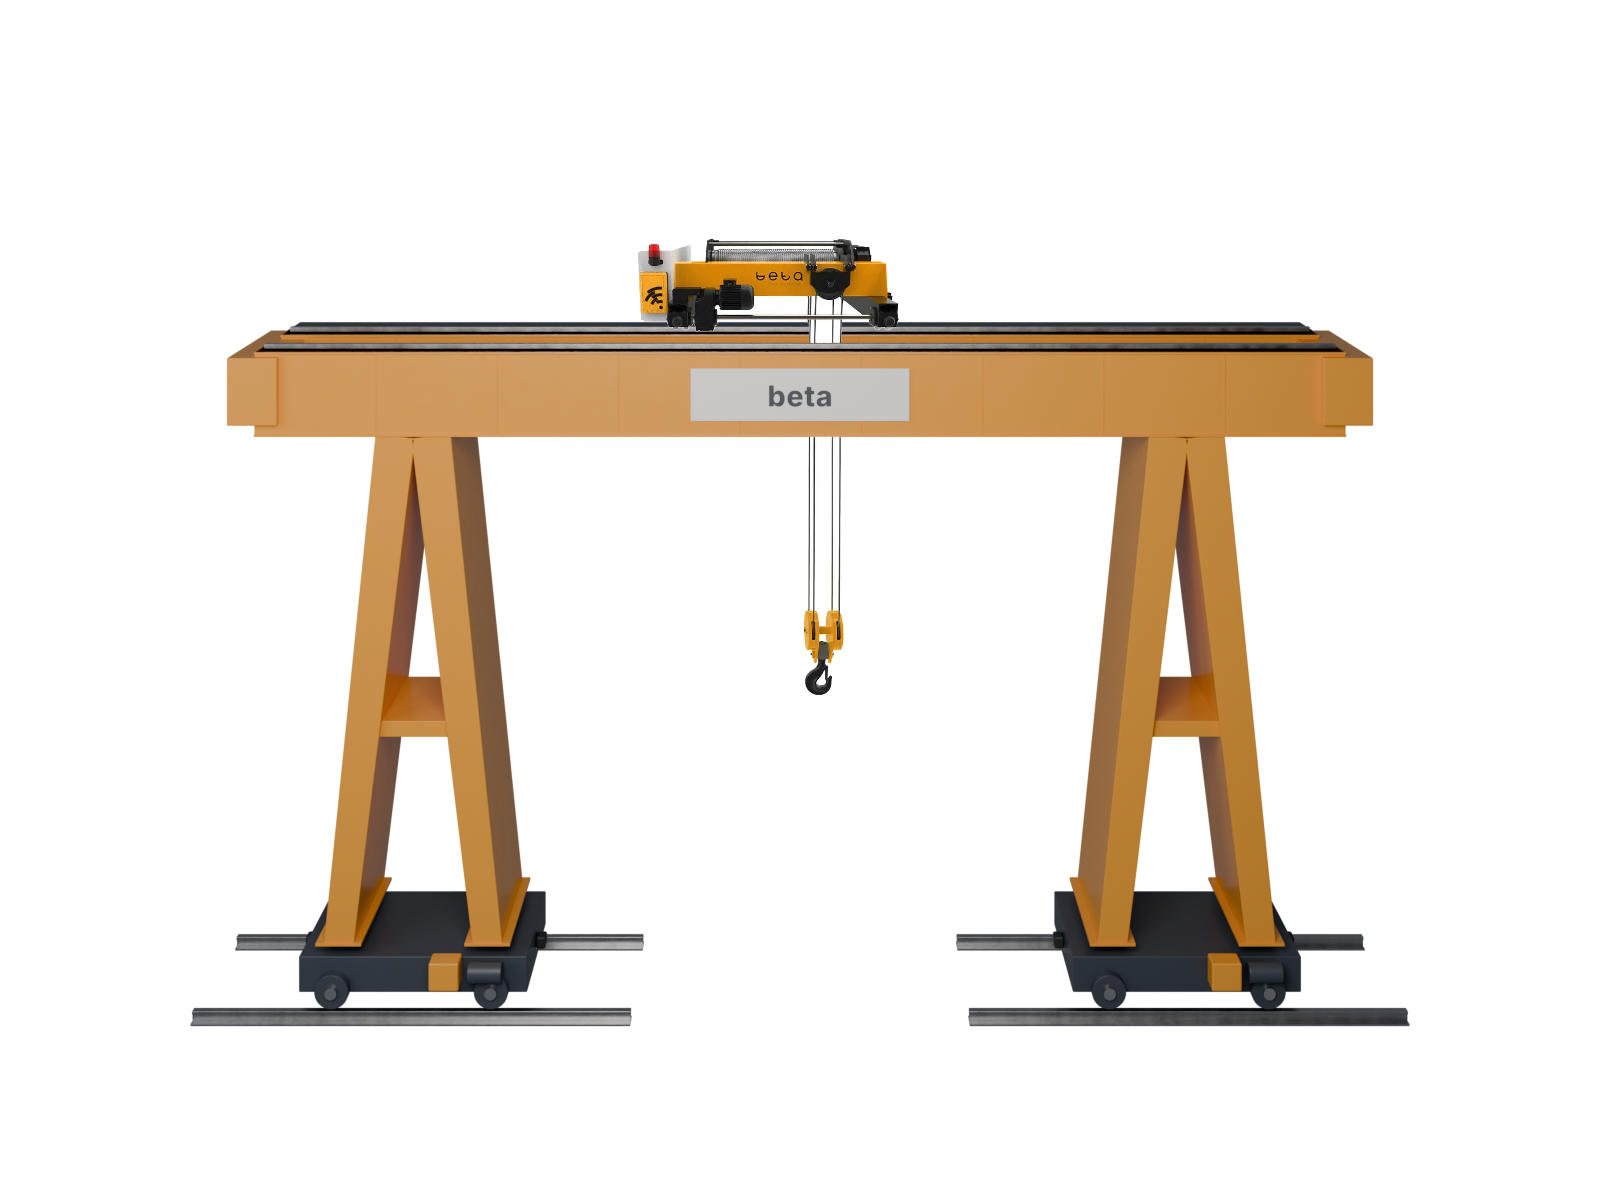
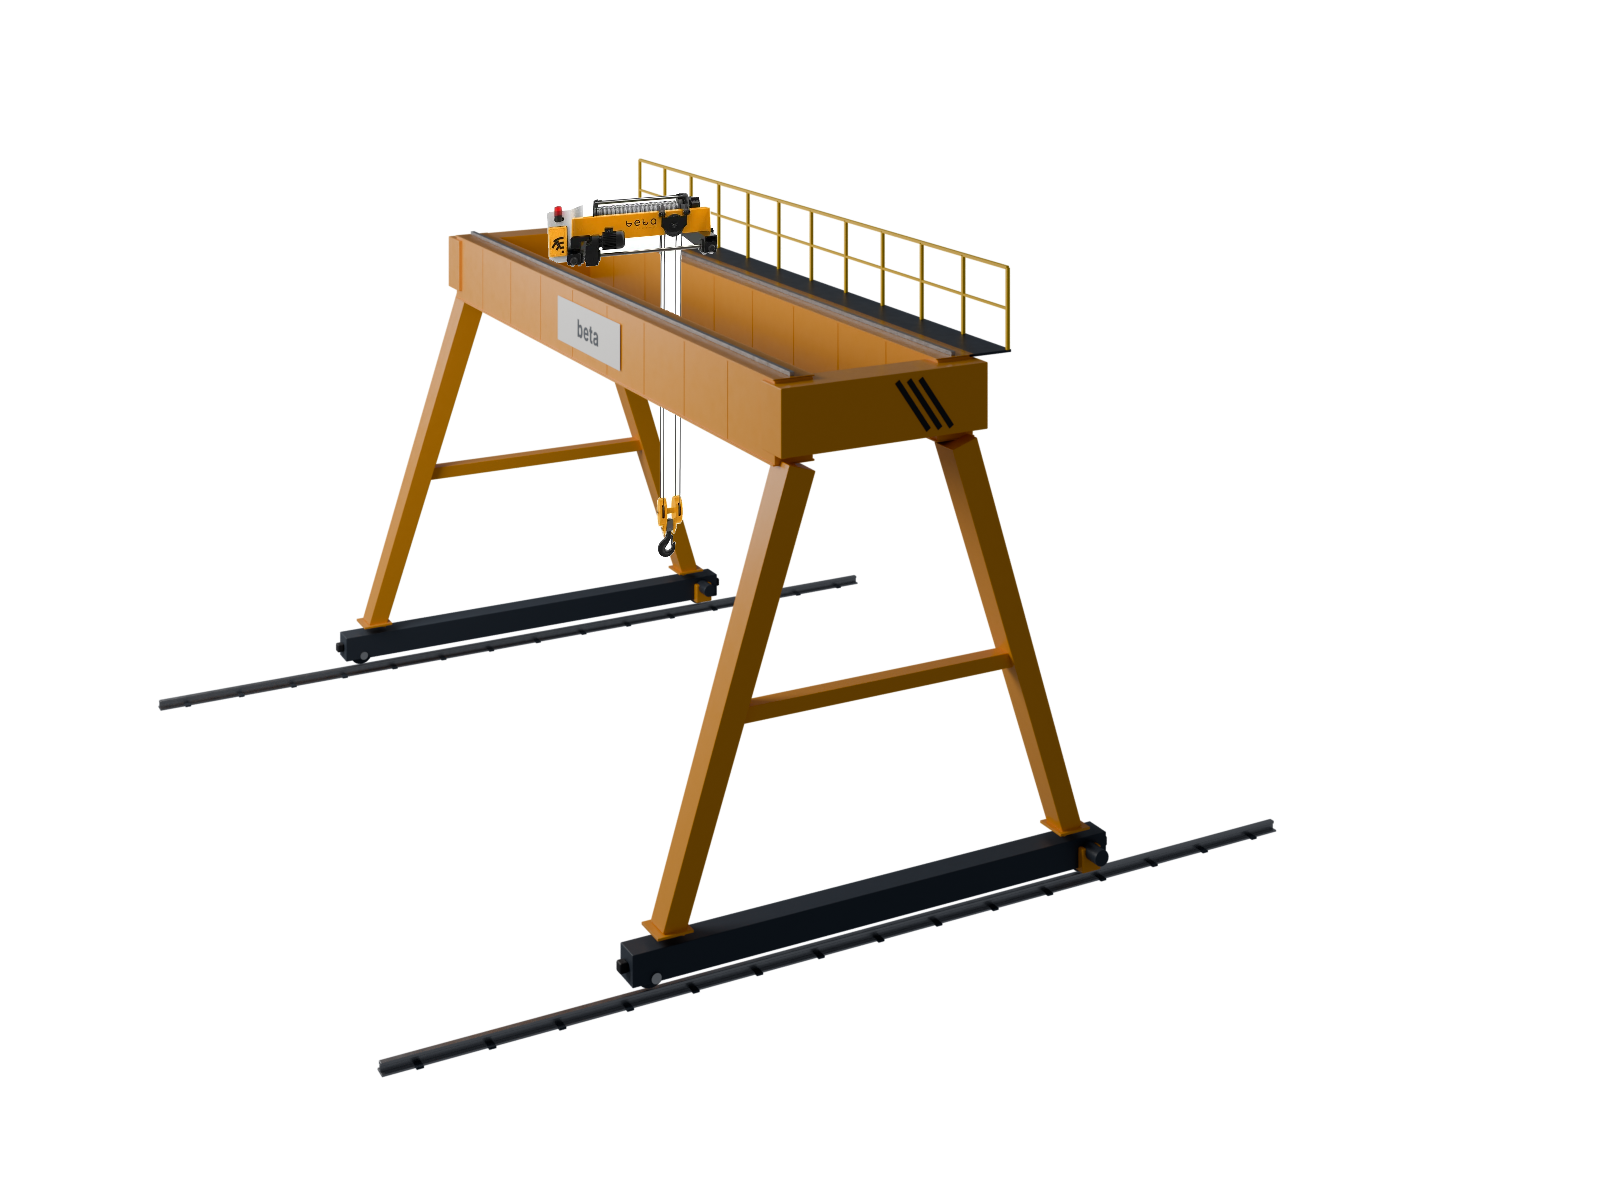
Portaller gerçek çift kirişli yapıya göre: kirişe dik A ayaklar, araba iki raya basar
Claude-Session: https://claude.ai/code/session_01BwJWWo6Yo4AefWjfCSnerb

Changed region(s): [[0.0938, 0.1233, 0.875, 0.8942]]

diff --git a/kaynak/render_vincler.py b/kaynak/render_vincler.py
@@ -901,41 +901,54 @@ def ray_x(name, x0, x1, y, M):
     kutu(name + "_mantar", (L, 0.07, 0.035), (cx, y, 0.105), M["ray"], bevel=0.006)
 
 
-def portal_govde(M, g, span, z_ust, h, cift_ayak=True, ray_ust=0.0, kanca_z=1.6, foto=None):
-    yk = 0.48  # kiriş aksları
-    kutu_kiris("kiris_on", 0, span, -yk, z_ust, h, 0.42, M, g, logo_yuzu=True)
-    kutu_kiris("kiris_arka", 0, span, yk, z_ust, h, 0.42, M, g)
-    for x in ((0.0, span) if True else ()):
-        kutu(f"bas_kirisi{x}", (0.5, 2 * yk + 0.6, h * 0.8), (x, 0, z_ust - h * 0.45), M["turuncu"], g, bevel=0.012)
-    # yürüyüş yolu ve korkuluk (arka kiriş üstünde; yan görünümde arabayı kapatmasın)
-    for i in range(0 if YAN else int(span / 1.0) + 1):
-        kutu(f"korkuluk_dikme{i}", (0.04, 0.04, 1.0), (i * span / int(span), yk + 0.48, z_ust + 0.5), M["sari"], g, bevel=0.004)
-    if not YAN:
-        kutu("korkuluk_ust", (span, 0.04, 0.04), (span / 2, yk + 0.48, z_ust + 1.0), M["sari"], g, bevel=0.004)
-        kutu("korkuluk_orta", (span, 0.03, 0.03), (span / 2, yk + 0.48, z_ust + 0.5), M["sari"], g, bevel=0.004)
-    kutu("yurume_yolu", (span, 0.55, 0.02), (span / 2, yk + 0.24 + 0.05, z_ust - 0.01), M["antrasit"], g, bevel=0.002)
+def portal_govde(M, g, span, z_ust, h, cift_ayak=True, ray_ust=0.0, kanca_z=1.6, foto=None, yan=None, yakin_x=None):
+    """Çift kirişli portal. yan=False: gerçek yapı (ayaklar kirişe dik düzlemde A, raylar kirişe dik)."""
+    yan = YAN if yan is None else yan
+    # kiriş aksları: fotoğraftaki arabanın tekerlek açıklığına (~2,2 m) göre
+    yk = 1.1 if (foto and not yan) else 0.48
+    kutu_kiris("kiris_on", 0, span, -yk, z_ust, h, 0.5 if yk > 1 else 0.42, M, g, logo_yuzu=True)
+    kutu_kiris("kiris_arka", 0, span, yk, z_ust, h, 0.5 if yk > 1 else 0.42, M, g)
+    for x in (0.0, span):
+        kutu(f"bas_kirisi{x:g}", (0.5, 2 * yk + 0.6, h * 0.8), (x, 0, z_ust - h * 0.45), M["turuncu"], g, bevel=0.012)
+        if not yan:
+            # uç kirişlerde siyah ikaz şeritleri
+            sx = 1 if x > 0 else -1
+            for k in range(3):
+                kutu(f"bas_kirisi{x:g}_serit{k}", (0.006, 0.07, h * 0.75), (x + sx * 0.253, 0.35 + k * 0.16, z_ust - h * 0.45),
+                     M["siyah"], g, bevel=0.0, rot=(math.radians(35), 0, 0))
+    # yürüyüş yolu ve korkuluk (arka kirişin dış yanında)
+    ky = yk + (0.25 if yk > 1 else 0.48)
+    if not yan:
+        for i in range(int(span / 1.0) + 1):
+            kutu(f"korkuluk_dikme{i}", (0.04, 0.04, 1.0), (i * span / int(span), ky + 0.5, z_ust + 0.5), M["sari"], g, bevel=0.004)
+        kutu("korkuluk_ust", (span, 0.04, 0.04), (span / 2, ky + 0.5, z_ust + 1.0), M["sari"], g, bevel=0.004)
+        kutu("korkuluk_orta", (span, 0.03, 0.03), (span / 2, ky + 0.5, z_ust + 0.5), M["sari"], g, bevel=0.004)
+        kutu("yurume_yolu", (span, 0.6, 0.03), (span / 2, ky + 0.25, z_ust - 0.015), M["antrasit"], g, bevel=0.002)
     # ayaklar
     zl = z_ust - h
-    if YAN:
+    if yan:
         der = 2 * yk + 0.42
         for i, xa in enumerate((1.6, span - 1.6) if cift_ayak else (1.6,)):
             portal_ayak_x(f"ayak{i}", xa, 0.62, zl, M, g, der)
             bas_araba_x(f"bas{i}", xa, ray_ust, M, g, der)
             for sy in (-1, 1):
                 ray_x(f"ray{i}{sy}", xa - 2.2, xa + 2.2, sy * (der / 2 + 0.05), M)
-    ya = max(1.7, yk + 0.9)
-    if not YAN:
-        portal_ayak("ayak_sol", 0.0, ya, max(0.55, yk * 0.9), 0.62, zl, M, g)
-        bas_araba("bas_sol", 0.0, -ya - 0.5, ya + 0.5, M, g, z=ray_ust)
-    if cift_ayak and not YAN:
-        portal_ayak("ayak_sag", span, ya, max(0.55, yk * 0.9), 0.62, zl, M, g)
-        bas_araba("bas_sag", span, -ya - 0.5, ya + 0.5, M, g, z=ray_ust)
-        kutu("kumanda_kabin", (0.6, 0.5, 0.9), (span - 0.0, -ya * 0.6, 1.6), M["antrasit"], g, bevel=0.01)
+    else:
+        ya = yk + 1.6 if yk > 1 else 1.7
+        yu = yk if yk > 1 else 0.55
+        for ad, x in (("sol", 0.0), ("sag", span)) if cift_ayak else (("sol", 0.0),):
+            portal_ayak(f"ayak_{ad}", x, ya, yu, 0.62, zl, M, g)
+            bas_araba(f"bas_{ad}", x, -ya - 0.5, ya + 0.5, M, g, z=ray_ust)
     if foto:
-        # Beta halatlı vinç arabası fotoğrafı: kiriş raylarının üstünde, halatlar ön kirişin arkasında
+        # Beta halatlı vinç arabası fotoğrafı: iki kirişin raylarına basar
         dosya, yuk, capa, dikey = foto
-        foto_vinc(dosya, g, (span * 0.47, 0, z_ust + 0.05), yuk, capa=capa, dikey=dikey,
-                  arkasinda=("kiris_on",), halat=(0.45, 0.60, kanca_z))
+        onunde = ["kiris_on"]
+        if yakin_x is not None:
+            onunde += [f"bas_kirisi{yakin_x:g}", "ayak_sag" if yakin_x > 0 else "ayak_sol"]
+        xa = span * (0.36 if (yakin_x or 0) > 0 else 0.58)
+        foto_vinc(dosya, g, (xa, 0, z_ust + 0.05), yuk, capa=capa, dikey=dikey,
+                  arkasinda=tuple(onunde), halat=(0.45, 0.60, kanca_z),
+                  eksen=None if yan else (0, 1, 0))
     else:
         halatli_araba("araba", span * 0.47, z_ust + 0.05, yk, M, g, kanca_z=kanca_z)
 
@@ -953,17 +966,20 @@ def ray(name, x, y0, y1, M):
 def sahne_portal(M):
     ortam(M, arka_y=9.5, sol_x=-9.0, sag_x=22.0)
     span = 11.0
-    if not YAN:
-        ray("ray_sol", 0.0, -RAY, RAY, M)
-        ray("ray_sag", span, -RAY, RAY, M)
+    ray("ray_sol", 0.0, -RAY, RAY, M)
+    ray("ray_sag", span, -RAY, RAY, M)
     g = bos("portal", (0, 0, 0.12))
-    portal_govde(M, g, span, 6.6, 0.85, cift_ayak=True, kanca_z=3.0 if YAN else 1.4,
+    portal_govde(M, g, span, 6.6, 1.0, cift_ayak=True, kanca_z=2.4, yan=False, yakin_x=span,
                  foto=("halatli_vinc_araba.png", 2.3, 0.5, 0.44) if BEYAZ else None)
     # yük: çelik sac paketi
     if not BEYAZ:
         yuk_kasa(M, (span * 0.47 - 0.15, -0.0, 0.0))
-    if YAN:
-        kamera((span / 2, -19.5, 10.3), (span / 2, 0, 4.0), lens=42, kaydir=True)  # araba fotoğrafı ~9° yukarıdan
+    if BEYAZ:
+        # araba fotoğrafı gibi: kiriş doğrultusuna yakın (~20° yandan), ~9° yukarıdan
+        a = math.radians(25)
+        d = 30.0
+        kamera((span / 2 + d * math.cos(a), -d * math.sin(a), 7.8 + d * math.tan(math.radians(9))),
+               (span / 2 + 3.6, 0, 3.4), lens=48, kaydir=True)
     else:
         kamera((13.4, -11.0, 1.8), (5.4, 0.0, 3.7), lens=24, dof=12)
     anahtar_isik((4, -12, 10), (5, 0, 3), 3500, boyut=8)
@@ -975,8 +991,9 @@ def sahne_yari_portal(M):
     # sağda betonarme bina kolonları + yürüyüş yolu kirişi
     beton = boya("beton_kolon", (0.36, 0.36, 0.345, 1), rough=0.85, var=0.1, bump=0.4)
     kx = span + 0.75
-    for i, y in enumerate(((0,) if YAN else (-3.5, 3.5)) if BEYAZ else (-12, -6, 0, 6, 12)):
-        kutu(f"bina_kolon{i}", (0.6, 0.6, 12), (kx, y, 6), beton, bevel=0.01)
+    KH = 9.5 if BEYAZ else 12
+    for i, y in enumerate((-3.5, 3.5) if BEYAZ else (-12, -6, 0, 6, 12)):
+        kutu(f"bina_kolon{i}", (0.6, 0.6, KH), (kx, y, KH / 2), beton, bevel=0.01)
         kutu(f"konsol{i}", (0.6, 0.6, 0.6), (kx - 0.55, y, 6.0), beton, bevel=0.01)
     if not BEYAZ:
         duzlem("sag_duvar", (80, 12), (kx + 0.3, 0, 6), (math.pi / 2, 0, math.pi / 2),
@@ -987,19 +1004,21 @@ def sahne_yari_portal(M):
     yk.rotation_euler = (0, 0, math.pi / 2)
     yk.location = (span, 0, 0)
     kutu("yol_rayi", (0.06, 7.6 if BEYAZ else 42.3, 0.05), (span, 0 if BEYAZ else 8.85, 6.775), M["ray"], bevel=0.004)
-    if not YAN:
-        ray("ray_sol", 0.0, -RAY, RAY, M)
+    ray("ray_sol", 0.0, -RAY, RAY, M)
     g = bos("portal", (0, 0, 0.12))
     zust = 7.75
-    portal_govde(M, g, span, zust, 0.85, cift_ayak=False, kanca_z=3.4 if YAN else 1.4,
+    portal_govde(M, g, span, zust, 0.85, cift_ayak=False, kanca_z=2.4, yan=False, yakin_x=0.0,
                  foto=("halatli_vinc_araba.png", 2.3, 0.5, 0.44) if BEYAZ else None)
     # yol kirişi üzerindeki baş arabası
-    bas_araba("bas_sag", span, -1.6, 1.6, M, g, z=6.68)
-    kutu("sag_bas_baglanti", (0.5, 1.6, 0.25), (span, 0, zust - 0.85 - 0.12 + 0.0), M["turuncu"], g, bevel=0.01)
+    bas_araba("bas_sag", span, -1.9, 1.9, M, g, z=6.68)
+    kutu("sag_bas_baglanti", (0.5, 2.8, 0.25), (span, 0, zust - 0.85 - 0.12 + 0.0), M["turuncu"], g, bevel=0.01)
     if not BEYAZ:
         yuk_kasa(M, (span * 0.47 - 0.15, 0.0, 0.0))
-    if YAN:
-        kamera((6.2, -20.5, 11.3), (6.2, 0, 4.4), lens=42, kaydir=True)
+    if BEYAZ:
+        a = math.radians(25)
+        d = 30.0
+        kamera((span / 2 - d * math.cos(a), -d * math.sin(a), 8.9 + d * math.tan(math.radians(9))),
+               (span / 2 - 1.2, 0, 4.0), lens=48, kaydir=True)
     else:
         kamera((-2.2, -11.6, 1.8), (6.0, 0.4, 4.3), lens=24, dof=12)
     anahtar_isik((8, -12, 10), (6, 0, 3), 3500, boyut=8)

diff --git a/README.md b/README.md
@@ -12,8 +12,9 @@ mercek kaydırmayla dik tutuldu. Arabaların tekerlekleri bom alt flanşına / k
 
 - Duvar tipi pergel → 2 ton zincirli vinç (`zincirli_vinc_2ton.png`)
 - Kolon tipi pergel → kompakt vinç (`kompakt_vinc.png`)
-- Yarı portal ve portal → halatlı vinç arabası (`halatli_vinc_araba.png`): kiriş raylarının
-  üstünde, ön kirişin arkasında; halat bandı uzatılarak kanca ~2 m yüksekliğe indirildi
+- Yarı portal ve portal → halatlı vinç arabası (`halatli_vinc_araba.png`): gerçek çift kirişli
+  portal yapısı (ayaklar kirişe dik düzlemde A, raylar kirişe dik); araba iki kirişin rayına basar,
+  kamera fotoğraf gibi kiriş doğrultusuna yakın (~25°) ve ~9° yukarıdan; halat bandı uzatıldı
 
 | Ürün | Orijinal | Gerçekçi |
 |---|---|---|
